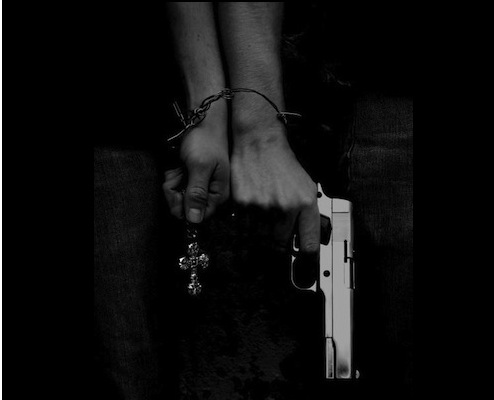
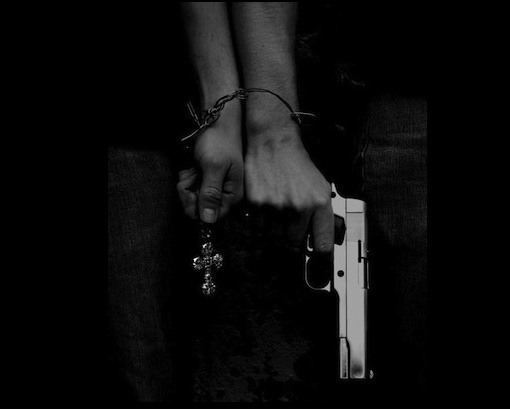
better styling for slideshow images

diff --git a/styles/stylesheet.css b/styles/stylesheet.css
@@ -48,13 +48,13 @@ img.logo_pic
 
 #nav a
 {
-  color:black;
-  text-decoration:none;
+    color:black;
+    text-decoration:none;
 }
 
 #nav a:hover
 {
-  text-decoration:underline;
+    text-decoration:underline;
 }
 
 #content
@@ -69,35 +69,35 @@ img.logo_pic
 
 .text_center
 {
-  text-align: center;
-  margin-right: 20px;
-  margin-left: 20px;
+    text-align: center;
+    margin-right: 20px;
+    margin-left: 20px;
 }
 
 .text_left
 {
-  text-align: left;
-  margin-right: 20px;
-  margin-left: 20px;
+    text-align: left;
+    margin-right: 20px;
+    margin-left: 20px;
 }
 
 #switcher-menu
 {
-  padding-top: 20px;
-  font-size: 130%;
+    padding-top: 20px;
+    font-size: 130%;
 
 }
 
 #switcher-menu a
 {
-  margin-right: 10px;
-  margin-left: 10px;
-  border-bottom: 1px solid black;
+    margin-right: 10px;
+    margin-left: 10px;
+    border-bottom: 1px solid black;
 }
 
 #switcher-panel
 {
-  padding-top: 20px;
+    padding-top: 20px;
 }
 
 #poster
@@ -106,6 +106,7 @@ img.logo_pic
     height:600px;
     margin: 0 auto;
     text-align: center;
+    border-bottom: 1px solid black;
 }
 
 img.poster_pic

diff --git a/styles/nivo-slider.css b/styles/nivo-slider.css
@@ -14,6 +14,7 @@
 	position:relative;
 	height:400px;
 	overflow: hidden;
+  border: 2px solid black;
 }
 .nivoSlider img {
 	position:absolute;
